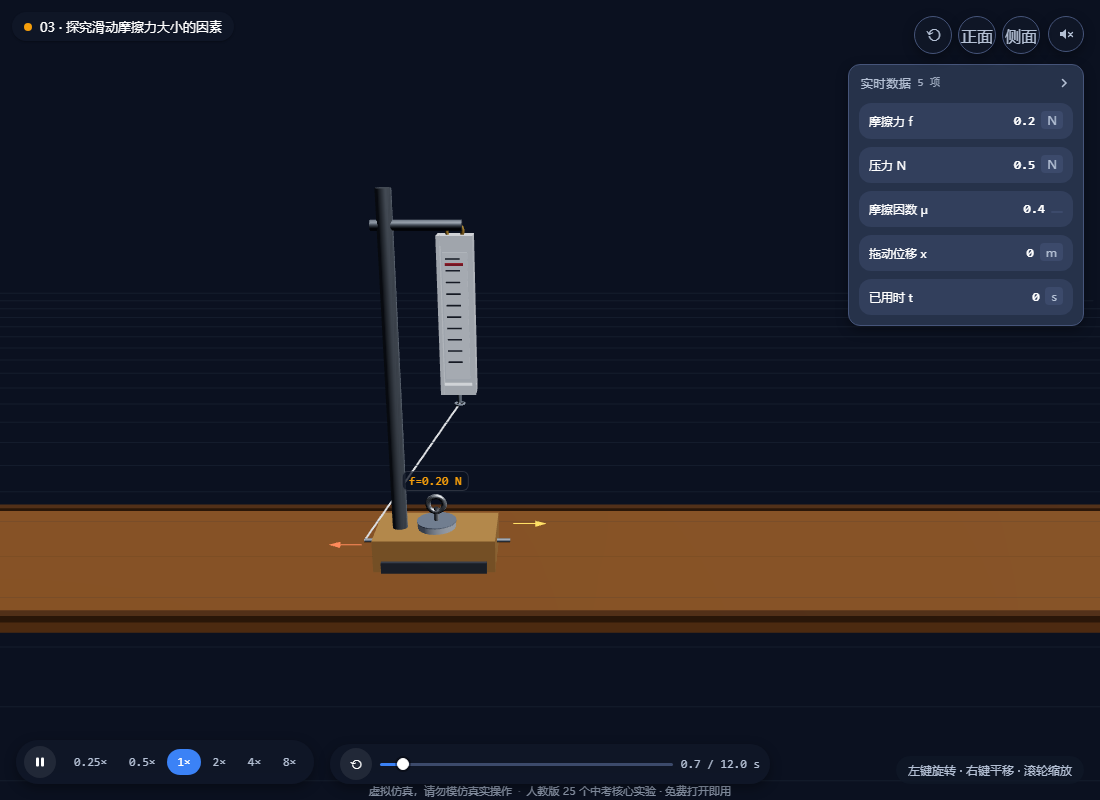
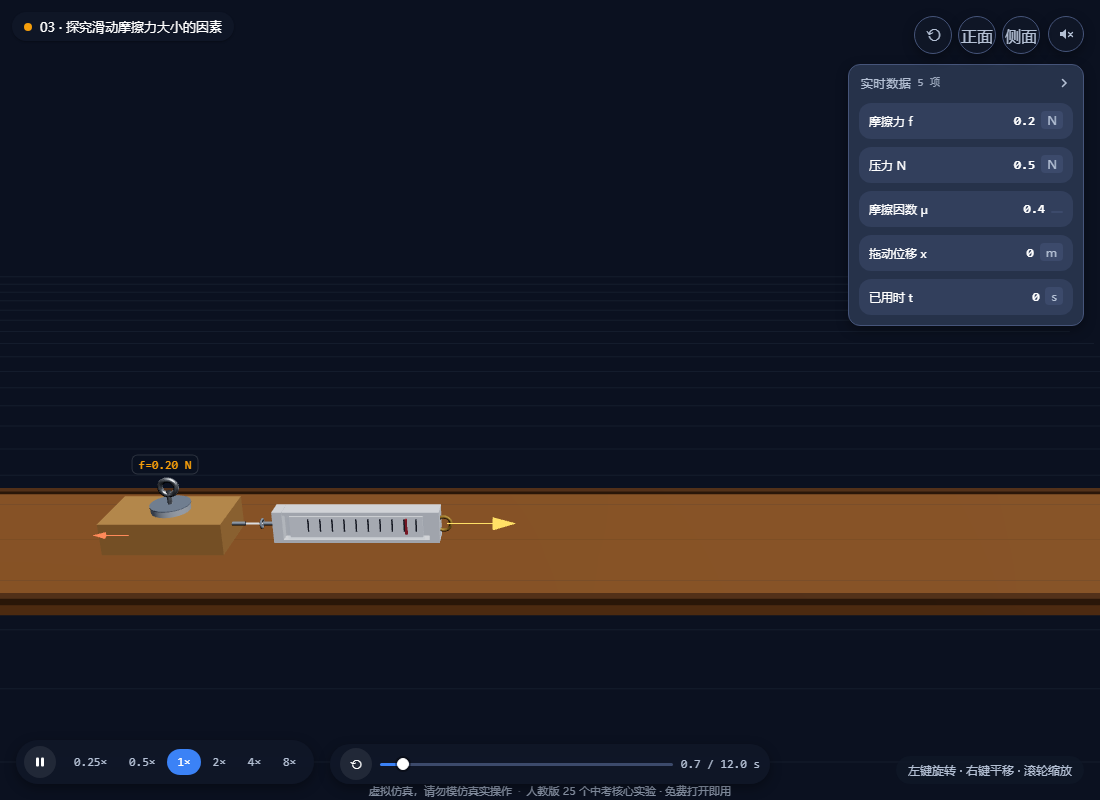
A3 textbook horizontal spring scale

Changed region(s): [[0.0, 0.2188, 1.0, 0.8125]]

diff --git a/docs/app/exp/mechanics.js b/docs/app/exp/mechanics.js
@@ -688,11 +688,11 @@ const A3 = {
     registerMaterials(ctx);
     addGround(ctx.scene, 0x3a2c14);
     // 实验台面：木桌板（长木板 + 两侧包边），不是一块蓝板
-    this.surface = box(9, 0.10, 1.4, MATS.wood()); this.surface.position.y = -0.05;
+    this.surface = box(13, 0.10, 1.4, MATS.wood()); this.surface.position.y = -0.05;
     this.surface.userData.noFit = true;
     ctx.scene.add(this.surface);
     const edge = [];
-    [-1, 1].forEach(s => { const e = box(9, 0.04, 0.06, MATS.woodDark()); e.position.set(0, 0.0, s * 0.7); edge.push(e); });
+    [-1, 1].forEach(s => { const e = box(13, 0.04, 0.06, MATS.woodDark()); e.position.set(0, 0.0, s * 0.7); edge.push(e); });
     const eg = mergeByMaterial(edge); eg.userData.noFit = true; ctx.scene.add(eg);
     // 待测木块：浅色薄木板（木纹沿长边），带挂钩
     this.blockG = woodBlock({ w: 0.72, h: 0.20, d: 0.40 });
@@ -703,19 +703,12 @@ const A3 = {
     this.weightsG.userData.noFit = true;
     ctx.scene.add(this.weightsG);
     this._weightsN = 0; this._weightsH = 0;
-    // 铁架台：底座 + 立杆 + 横臂夹持弹簧测力计（不让测力计悬空）
-    this.stand = new THREE.Group();
-    const sb = box(0.62, 0.07, 0.44, MATS.iron()); sb.position.y = 0.035; sb.receiveShadow = true;
-    const rod = cyl(0.045, 0.045, 2.2, MATS.steel()); rod.position.set(-0.22, 1.1, 0);
-    const arm = cyl(0.03, 0.03, 0.5, MATS.steel()); arm.rotation.z = Math.PI / 2; arm.position.set(-0.05, 2.0, 0);
-    this.stand.add(sb, rod, arm); ctx.scene.add(this.stand);
-    // 弹簧测力计：方壳带刻度窗口 + 顶部提环 + 底部挂钩
-    this.scaleG = springScale({ h: 0.9, w: 0.2, d: 0.12 });
+    // 弹簧测力计：水平放置，轴线与木块运动方向共线，整组随木块平移（教材形态）
+    // 竖壳绕 Z 转 -90°：底部挂钩转向左侧、正对木块右侧挂钩；顶部提环朝右（手拉端）
+    this.scaleG = springScale({ h: 1.0, w: 0.20, d: 0.12 });
     this.scale = this.scaleG;
-    this.scale.position.set(0.16, 1.5, 0); ctx.scene.add(this.scaleG);
-    // 提环挂到横臂上（细线）
-    this.hang = fatLine([new THREE.Vector3(0, 0, 0), new THREE.Vector3(0, 0, 0)], '#cfd8e6', 1.5);
-    ctx.scene.add(this.hang);
+    this.scaleG.rotation.z = -Math.PI / 2;
+    this.scaleG.position.set(0, 0.11, 0); ctx.scene.add(this.scaleG);
     this.hook = fatLine([new THREE.Vector3(0, 0, 0), new THREE.Vector3(0, 0, 0)], '#e6edf7', 2);
     ctx.scene.add(this.hook);
     this.pullArrow = mkArrow('#ffe066'); ctx.scene.add(this.pullArrow);
@@ -777,18 +770,23 @@ const A3 = {
     this.x = Math.min(v * this._t, 4);
     this.block.position.set(this.x, 0.0, 0);
     if (this.weightsG) this.weightsG.position.set(this.x, 0.20, 0);
-    // 测力计固定在铁架台横臂上，指针随拉力下移（不再悬空、也不跟着木块跑）
-    setSpringScale(this.scaleG, clamp(this.f / 4, 0.04, 1));
-    // 提环挂到横臂上
-    this.hang.geometry.setPositions([0.16, 2.02, 0, -0.05, 2.0, 0]);
-    this.hang.computeLineDistances();
-    // 底部挂钩勾住木块左侧挂钩：细绳从木块侧钩斜拉到测力计挂钩，让开块顶砝码堆
-    this.hook.geometry.setPositions([0.16, 0.98, 0, this.x - 0.44 * (this.block.scale ? this.block.scale.x : 1), 0.11, 0]);
+    // 测力计水平放置：整体随木块平移，底部挂钩正对木块右侧挂钩，短水平绳相连
+    const sx = this.block.scale ? this.block.scale.x : 1;
+    const blockHookX = this.x + 0.44 * sx;         // 木块右侧挂钩外端
+    const SH = 1.0, hookLocal = 0.58 * SH;         // 测力计底部挂钩到组中心的水平距离
+    const gap = 0.10;                               // 短水平绳长度
+    const scaleX = blockHookX + gap + hookLocal;    // 让底部挂钩落在木块右钩右侧 gap 处
+    this.scaleG.position.set(scaleX, 0.11, 0);
+    this.hook.geometry.setPositions([blockHookX, 0.11, 0, scaleX - hookLocal, 0.11, 0]);
     this.hook.computeLineDistances();
-    setArrow(this.pullArrow, new THREE.Vector3(1, 0, 0), clamp(this.f * 0.35, 0.2, 1.2));
-    this.pullArrow.position.set(this.x + 0.46, 0.22, 0);
-    setArrow(this.fArrow, new THREE.Vector3(-1, 0, 0), clamp(this.f * 0.35, 0.2, 1.2));
-    this.fArrow.position.set(this.x - 0.46, 0.08, 0);
+    // 指针：f 越大越靠挂钩端；f=0.2/0.8/2.0 位置差明显（刻度清楚）
+    setSpringScale(this.scaleG, clamp(this.f / 2.2, 0, 1));
+    // 拉力箭头（手向右拉测力计）
+    setArrow(this.pullArrow, new THREE.Vector3(1, 0, 0), 0.42);
+    this.pullArrow.position.set(scaleX + 0.54, 0.11, 0);
+    // 摩擦力箭头（作用在木块上、向左，与运动方向相反）
+    setArrow(this.fArrow, new THREE.Vector3(-1, 0, 0), clamp(this.f * 0.30, 0.22, 0.85));
+    this.fArrow.position.set(this.x - 0.28, 0.03, 0);
     this.lbl.position.set(this.x, clamp(0.20 + (this._weightsH || 0) + 0.13, 0.48, 0.86), 0);
     setLabel(this.lbl, 'f=' + this.f.toFixed(2) + ' N');
   },

diff --git a/release/physics-3d-lab/exp/mechanics.js b/release/physics-3d-lab/exp/mechanics.js
@@ -688,11 +688,11 @@ const A3 = {
     registerMaterials(ctx);
     addGround(ctx.scene, 0x3a2c14);
     // 实验台面：木桌板（长木板 + 两侧包边），不是一块蓝板
-    this.surface = box(9, 0.10, 1.4, MATS.wood()); this.surface.position.y = -0.05;
+    this.surface = box(13, 0.10, 1.4, MATS.wood()); this.surface.position.y = -0.05;
     this.surface.userData.noFit = true;
     ctx.scene.add(this.surface);
     const edge = [];
-    [-1, 1].forEach(s => { const e = box(9, 0.04, 0.06, MATS.woodDark()); e.position.set(0, 0.0, s * 0.7); edge.push(e); });
+    [-1, 1].forEach(s => { const e = box(13, 0.04, 0.06, MATS.woodDark()); e.position.set(0, 0.0, s * 0.7); edge.push(e); });
     const eg = mergeByMaterial(edge); eg.userData.noFit = true; ctx.scene.add(eg);
     // 待测木块：浅色薄木板（木纹沿长边），带挂钩
     this.blockG = woodBlock({ w: 0.72, h: 0.20, d: 0.40 });
@@ -703,19 +703,12 @@ const A3 = {
     this.weightsG.userData.noFit = true;
     ctx.scene.add(this.weightsG);
     this._weightsN = 0; this._weightsH = 0;
-    // 铁架台：底座 + 立杆 + 横臂夹持弹簧测力计（不让测力计悬空）
-    this.stand = new THREE.Group();
-    const sb = box(0.62, 0.07, 0.44, MATS.iron()); sb.position.y = 0.035; sb.receiveShadow = true;
-    const rod = cyl(0.045, 0.045, 2.2, MATS.steel()); rod.position.set(-0.22, 1.1, 0);
-    const arm = cyl(0.03, 0.03, 0.5, MATS.steel()); arm.rotation.z = Math.PI / 2; arm.position.set(-0.05, 2.0, 0);
-    this.stand.add(sb, rod, arm); ctx.scene.add(this.stand);
-    // 弹簧测力计：方壳带刻度窗口 + 顶部提环 + 底部挂钩
-    this.scaleG = springScale({ h: 0.9, w: 0.2, d: 0.12 });
+    // 弹簧测力计：水平放置，轴线与木块运动方向共线，整组随木块平移（教材形态）
+    // 竖壳绕 Z 转 -90°：底部挂钩转向左侧、正对木块右侧挂钩；顶部提环朝右（手拉端）
+    this.scaleG = springScale({ h: 1.0, w: 0.20, d: 0.12 });
     this.scale = this.scaleG;
-    this.scale.position.set(0.16, 1.5, 0); ctx.scene.add(this.scaleG);
-    // 提环挂到横臂上（细线）
-    this.hang = fatLine([new THREE.Vector3(0, 0, 0), new THREE.Vector3(0, 0, 0)], '#cfd8e6', 1.5);
-    ctx.scene.add(this.hang);
+    this.scaleG.rotation.z = -Math.PI / 2;
+    this.scaleG.position.set(0, 0.11, 0); ctx.scene.add(this.scaleG);
     this.hook = fatLine([new THREE.Vector3(0, 0, 0), new THREE.Vector3(0, 0, 0)], '#e6edf7', 2);
     ctx.scene.add(this.hook);
     this.pullArrow = mkArrow('#ffe066'); ctx.scene.add(this.pullArrow);
@@ -777,18 +770,23 @@ const A3 = {
     this.x = Math.min(v * this._t, 4);
     this.block.position.set(this.x, 0.0, 0);
     if (this.weightsG) this.weightsG.position.set(this.x, 0.20, 0);
-    // 测力计固定在铁架台横臂上，指针随拉力下移（不再悬空、也不跟着木块跑）
-    setSpringScale(this.scaleG, clamp(this.f / 4, 0.04, 1));
-    // 提环挂到横臂上
-    this.hang.geometry.setPositions([0.16, 2.02, 0, -0.05, 2.0, 0]);
-    this.hang.computeLineDistances();
-    // 底部挂钩勾住木块左侧挂钩：细绳从木块侧钩斜拉到测力计挂钩，让开块顶砝码堆
-    this.hook.geometry.setPositions([0.16, 0.98, 0, this.x - 0.44 * (this.block.scale ? this.block.scale.x : 1), 0.11, 0]);
+    // 测力计水平放置：整体随木块平移，底部挂钩正对木块右侧挂钩，短水平绳相连
+    const sx = this.block.scale ? this.block.scale.x : 1;
+    const blockHookX = this.x + 0.44 * sx;         // 木块右侧挂钩外端
+    const SH = 1.0, hookLocal = 0.58 * SH;         // 测力计底部挂钩到组中心的水平距离
+    const gap = 0.10;                               // 短水平绳长度
+    const scaleX = blockHookX + gap + hookLocal;    // 让底部挂钩落在木块右钩右侧 gap 处
+    this.scaleG.position.set(scaleX, 0.11, 0);
+    this.hook.geometry.setPositions([blockHookX, 0.11, 0, scaleX - hookLocal, 0.11, 0]);
     this.hook.computeLineDistances();
-    setArrow(this.pullArrow, new THREE.Vector3(1, 0, 0), clamp(this.f * 0.35, 0.2, 1.2));
-    this.pullArrow.position.set(this.x + 0.46, 0.22, 0);
-    setArrow(this.fArrow, new THREE.Vector3(-1, 0, 0), clamp(this.f * 0.35, 0.2, 1.2));
-    this.fArrow.position.set(this.x - 0.46, 0.08, 0);
+    // 指针：f 越大越靠挂钩端；f=0.2/0.8/2.0 位置差明显（刻度清楚）
+    setSpringScale(this.scaleG, clamp(this.f / 2.2, 0, 1));
+    // 拉力箭头（手向右拉测力计）
+    setArrow(this.pullArrow, new THREE.Vector3(1, 0, 0), 0.42);
+    this.pullArrow.position.set(scaleX + 0.54, 0.11, 0);
+    // 摩擦力箭头（作用在木块上、向左，与运动方向相反）
+    setArrow(this.fArrow, new THREE.Vector3(-1, 0, 0), clamp(this.f * 0.30, 0.22, 0.85));
+    this.fArrow.position.set(this.x - 0.28, 0.03, 0);
     this.lbl.position.set(this.x, clamp(0.20 + (this._weightsH || 0) + 0.13, 0.48, 0.86), 0);
     setLabel(this.lbl, 'f=' + this.f.toFixed(2) + ' N');
   },

diff --git a/release/physics-3d-lab/sw.js b/release/physics-3d-lab/sw.js
@@ -1,5 +1,5 @@
 /* Service Worker：整站本地缓存 —— 打开过一次后，全部资源走本地缓存，秒开、断网也能用。
- * 版本号 22cdda9 由 tools/make-release.ps1 在发布时替换为 git 短哈希：
+ * 版本号 332065d 由 tools/make-release.ps1 在发布时替换为 git 短哈希：
  * 每次发布自动换缓存名；新 SW 安装完成后清掉旧缓存，保证新旧版本绝不混用。
  * 策略（为发布一致性 + 跨境提速而设计）：
  *   - 安装：容错 precache 核心清单（某项失败不影响整体安装），skipWaiting 立即接管
@@ -8,7 +8,7 @@
  *     「新 HTML + 旧 JS」的混合状态（发布后第一次打开仍是旧版，刷新一次即新版）
  *   - 其他同源 GET：cache-first，miss 才走网络并写入缓存
  */
-const VERSION = '22cdda9';
+const VERSION = '332065d';
 const CACHE = 'phlab-' + VERSION;
 
 const PRECACHE = [

diff --git a/docs/app/experiments.js b/docs/app/experiments.js
@@ -12,7 +12,7 @@ const RAW = Object.assign({}, MECHANICS, OPTICS, ACOUSTICS, ELECTRICITY, THERMAL
 const CAM = {
   'A1-incline-speed': { p: [2.4, 2.2, 3.6], t: [0.5, 0.15, 0] },
   'A2-newton-first': { p: [-0.4, 5.0, 7.2], t: [-0.4, 0.25, 0] },
-  'A3-friction': { p: [0, 2.7, 5.3], t: [0, 1.0, 0] },
+  'A3-friction': { p: [1.6, 2.7, 5.3], t: [1.6, 0.9, 0] },   // 居中到行程中段：木块+水平测力计拉到 x≈5.2 仍在画面内
   'A4-liquid-pressure': { p: [1.70, 2.99, 6.72], t: [-0.2, 1.2, 0] },   // 拉远 12%：右侧 U 形管别落进统计面板
   'A5-buoyancy': { p: [1.7, 3.3, 7.0], t: [0, 1.5, 0] },
   'A6-energy': { p: [1.0, 3.0, 6.6], t: [0.3, 1.5, 0] },

diff --git a/release/physics-3d-lab/experiments.js b/release/physics-3d-lab/experiments.js
@@ -12,7 +12,7 @@ const RAW = Object.assign({}, MECHANICS, OPTICS, ACOUSTICS, ELECTRICITY, THERMAL
 const CAM = {
   'A1-incline-speed': { p: [2.4, 2.2, 3.6], t: [0.5, 0.15, 0] },
   'A2-newton-first': { p: [-0.4, 5.0, 7.2], t: [-0.4, 0.25, 0] },
-  'A3-friction': { p: [0, 2.7, 5.3], t: [0, 1.0, 0] },
+  'A3-friction': { p: [1.6, 2.7, 5.3], t: [1.6, 0.9, 0] },   // 居中到行程中段：木块+水平测力计拉到 x≈5.2 仍在画面内
   'A4-liquid-pressure': { p: [1.70, 2.99, 6.72], t: [-0.2, 1.2, 0] },   // 拉远 12%：右侧 U 形管别落进统计面板
   'A5-buoyancy': { p: [1.7, 3.3, 7.0], t: [0, 1.5, 0] },
   'A6-energy': { p: [1.0, 3.0, 6.6], t: [0.3, 1.5, 0] },

diff --git a/docs/app/stitch-a3-hscale.py b/docs/app/stitch-a3-hscale.py
@@ -1,0 +1,28 @@
+from PIL import Image, ImageDraw, ImageFont
+import os
+base = os.path.join("docs", "app", "shots", "a3-hscale")
+items = [
+    ("a3-hscale-N0.5-t6.png", "N=0.5  f=0.20N  1片"),
+    ("a3-hscale-N2-t6.png",   "N=2      f=0.80N  4片"),
+    ("a3-hscale-N5-t6.png",   "N=5      f=2.00N  10片"),
+]
+imgs = [Image.open(os.path.join(base, f)).convert("RGB") for f, _ in items]
+w = min(i.width for i in imgs); h = min(i.height for i in imgs)
+imgs = [i.crop((0, 0, w, h)) for i in imgs]
+hdr = 46
+try:
+    font = ImageFont.truetype("C:/Windows/Fonts/arialbd.ttf", 26)
+except Exception:
+    font = ImageFont.load_default()
+canvas = Image.new("RGB", (w * 3, h + hdr), (245, 247, 250))
+d = ImageDraw.Draw(canvas)
+for idx, (img, (_, label)) in enumerate(zip(imgs, items)):
+    x0 = idx * w
+    canvas.paste(img, (x0, hdr))
+    d.rectangle([x0, 0, x0 + w, hdr], fill=(30, 42, 58))
+    d.text((x0 + 16, 10), label, fill=(240, 244, 250), font=font)
+    if idx > 0:
+        d.line([(x0, 0), (x0, h + hdr)], fill=(120, 130, 145), width=2)
+out = os.path.join(base, "a3-hscale-compare-N.png")
+canvas.save(out)
+print("SAVED", out, canvas.size)

diff --git a/docs/app/stitch-a3-hline.py b/docs/app/stitch-a3-hline.py
@@ -1,0 +1,28 @@
+from PIL import Image, ImageDraw, ImageFont
+import os
+base = os.path.join("docs", "app", "shots", "a3-hscale")
+items = [
+    ("a3-hline-p03-t0.png",  "t=0s   x=0.0m"),
+    ("a3-hline-p03-t6.png",  "t=6s   x=1.8m"),
+    ("a3-hline-p03-t12.png", "t=12s  x=3.6m"),
+]
+imgs = [Image.open(os.path.join(base, f)).convert("RGB") for f, _ in items]
+w = min(i.width for i in imgs); h = min(i.height for i in imgs)
+imgs = [i.crop((0, 0, w, h)) for i in imgs]
+hdr = 46
+try:
+    font = ImageFont.truetype("C:/Windows/Fonts/arialbd.ttf", 26)
+except Exception:
+    font = ImageFont.load_default()
+canvas = Image.new("RGB", (w * 3, h + hdr), (245, 247, 250))
+d = ImageDraw.Draw(canvas)
+for idx, (img, (_, label)) in enumerate(zip(imgs, items)):
+    x0 = idx * w
+    canvas.paste(img, (x0, hdr))
+    d.rectangle([x0, 0, x0 + w, hdr], fill=(30, 42, 58))
+    d.text((x0 + 16, 10), "pull=0.3  " + label, fill=(240, 244, 250), font=font)
+    if idx > 0:
+        d.line([(x0, 0), (x0, h + hdr)], fill=(120, 130, 145), width=2)
+out = os.path.join(base, "a3-hline-compare-t.png")
+canvas.save(out)
+print("SAVED", out, canvas.size)

diff --git a/docs/app/ui-probe-report.md b/docs/app/ui-probe-report.md
@@ -1,6 +1,6 @@
 # UI→引擎通路探针报告
 
-时间：2026-11-22T04:08:44.197Z
+时间：2026-11-22T04:57:09.591Z
 方法：包裹每个实验的 exp.onParam 计数；滑杆用原生 input 事件、枚举用真实点击驱动；每控件触发后等 2 帧再读计数。
 
 | 实验 | 控件 | 类型 | onParam 送达 | 判定 |
